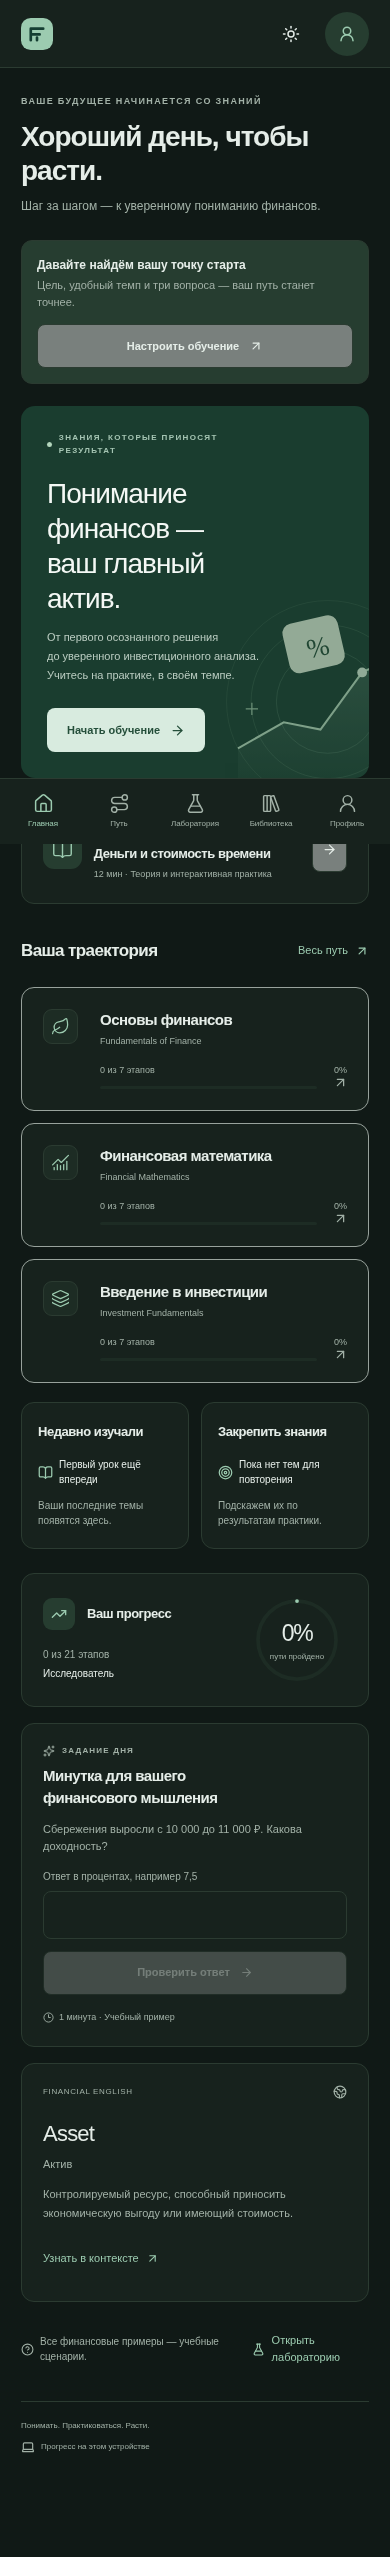
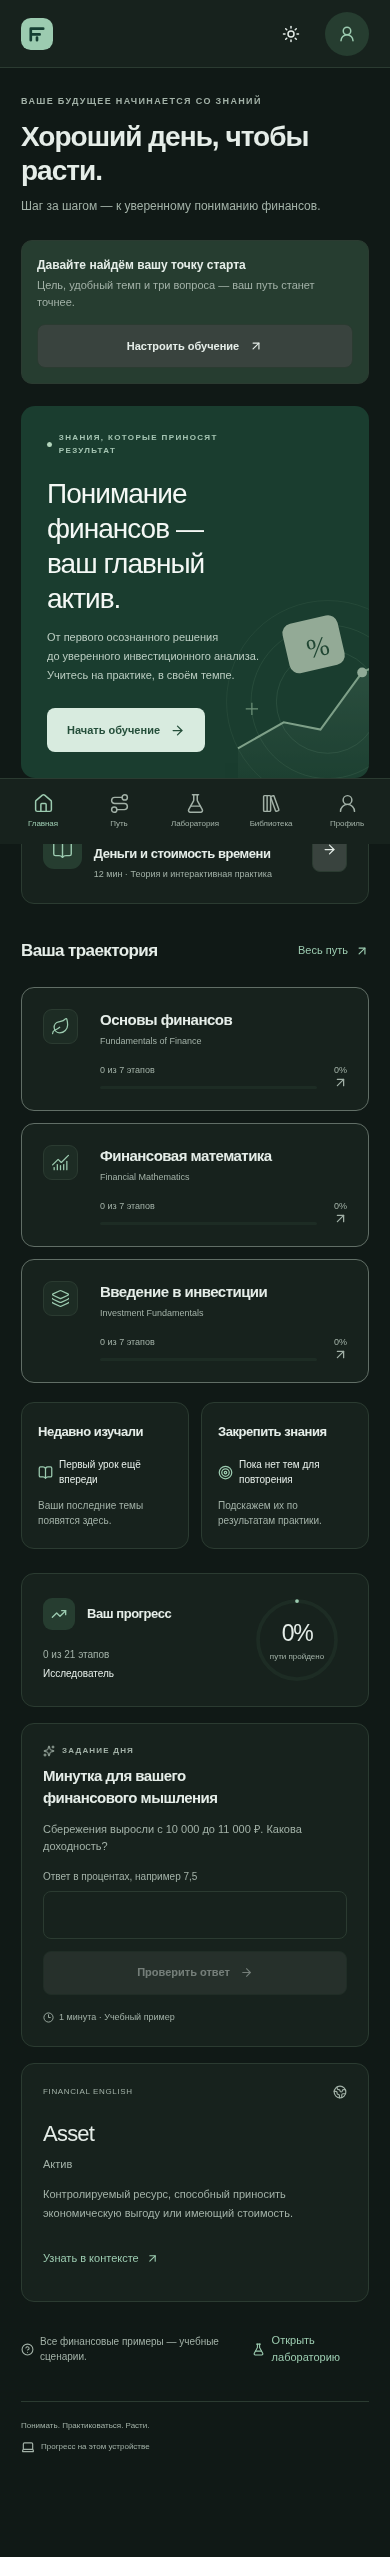
Record verified production release and use browser fetch for PWA checks

Changed region(s): [[0.1231, 0.7415, 0.8923, 0.8033], [0.0923, 0.1236, 0.9231, 0.1545], [0.8, 0.309, 0.8923, 0.3399]]

diff --git a/tests/e2e/academy.spec.ts b/tests/e2e/academy.spec.ts
@@ -353,9 +353,12 @@ test('PWA manifest and visited public lesson work after losing connectivity', as
 }) => {
   await page.goto('/lesson/m1-money');
   await expect(page.getByRole('heading', { name: 'Деньги — инструмент обмена' })).toBeVisible();
-  const manifest = await page.request.get('/manifest.webmanifest');
-  expect(manifest.ok()).toBeTruthy();
-  expect((await manifest.json()).display).toBe('standalone');
+  const manifest = await page.evaluate(async () => {
+    const response = await fetch('/manifest.webmanifest');
+    return { status: response.status, body: await response.json() };
+  });
+  expect(manifest.status).toBe(200);
+  expect(manifest.body.display).toBe('standalone');
   await page.evaluate(async () => {
     await navigator.serviceWorker.ready;
   });

diff --git a/docs/verification.md b/docs/verification.md
@@ -6,6 +6,36 @@
 изолированный браузерный контекст для каждого теста; гостевые ответы не
 подменяются заранее подготовленным прогрессом.
 
+## Проверка опубликованной версии
+
+Production: **https://finance-swart-six.vercel.app/**, дополнительный алиас
+https://finance-elcin31s-projects.vercel.app/. Использован существующий проект
+Vercel `finance` (`prj_rdsX7IPKPDqpB3w8ZqBqklBX6kbO`), без создания дубля.
+Проверенная версия приложения: commit `426896bc9d2f8e1a286f1ad4f53fc57061b2e7cb`,
+deployment `dpl_9Tn8fjii54YB5CrrsMzUjTt5duyH`, статус READY, сборка около 35 секунд.
+
+- Реальный Chromium открыл публичный production URL: HTTP 200, правильный
+  заголовок FINLAB, интерфейс после hydration, без pageerror.
+- `BASE_URL=https://finance-swart-six.vercel.app npm run test:e2e`:
+  **15 passed (1.3m)**, включая все 112 упражнений, 3 экзамена, семь ширин и
+  офлайн-перезагрузку урока.
+- `BASE_URL=https://finance-swart-six.vercel.app npm run test:auth`:
+  **1 passed (13.2s)**, настоящий Supabase, импорт, второй контекст, выход.
+- GitHub Actions для того же commit: **success**. Выполнены npm ci, TypeScript,
+  unit tests, production build и все 15 гостевых E2E на чистом runner без Supabase
+  credentials: https://github.com/elcin31/finance-/actions/runs/40660272560.
+- Vercel runtime error query за последние 15 минут: `No logs found for the
+specified criteria`. Внешние log drains/Observability Plus не подключались.
+- Временный подтверждённый Auth QA-пользователь и его данные удалены после
+  проверки; SQL подтвердил 0 оставшихся записей этого пользователя. Credentials
+  из локального `.env.e2e.local` также удалены.
+
+Первый внешний PWA-тест остановился на Node HTTP-клиенте: `ECONNREFUSED` к
+Vercel, до проверки приложения. Manifest теперь запрашивается через настоящий
+браузерный fetch той же страницы; повторный полный прогон 15/15 успешен.
+Никакие сетевые ответы не подменялись. Следующий коммит содержит только этот
+тестовый запрос, обновлённые снимки и документацию; приложение не изменено.
+
 Итоговый полный запуск `npm run test:e2e`: **15 passed (1.3m)**. Прогон
 включает полный учебный путь, повторный экзамен, все перечисленные размеры и
 инструменты, клавиатуру и отключение сети. Он повторён после финальной сборки

diff --git a/docs/supabase.md b/docs/supabase.md
@@ -7,7 +7,7 @@
 1. Используйте отдельный проект FINLAB. Не применяйте миграции к базам других приложений.
 2. Скопируйте `.env.example` в `.env.local`. Укажите `NEXT_PUBLIC_SUPABASE_URL` и **publishable** key в `NEXT_PUBLIC_SUPABASE_PUBLISHABLE_KEY`. Эти значения предназначены для браузера. `service_role`, `sb_secret_*` и пароль PostgreSQL здесь запрещены.
 3. Примените SQL из `supabase/migrations/` по порядку. Для Supabase CLI сначала выполните `npx supabase --help`, затем `npx supabase link --project-ref <FINLAB_REF>` и `npx supabase db push`. Не добавляйте пароль базы в командную строку или Git.
-4. В Authentication → URL Configuration укажите фактический Site URL. Добавьте `http://localhost:3000/profile` и адрес опубликованного приложения с `/profile` в разрешённые Redirect URLs. Для восстановления пароля используется этот же маршрут.
+4. В Authentication → URL Configuration укажите Site URL `https://finance-swart-six.vercel.app`. Добавьте `http://localhost:3000/profile` и `https://finance-swart-six.vercel.app/profile` в разрешённые Redirect URLs; при использовании второго production-алиаса добавьте также `https://finance-elcin31s-projects.vercel.app/profile`. Для восстановления пароля используется этот же маршрут. Эти настройки и внешняя SMTP-доставка требуют проверки в Dashboard: доступные MCP-инструменты не изменяют Auth URL configuration.
 5. В Authentication → Providers включите email/password. Подтверждение email должно соответствовать настройкам приложения: регистрация с включённым подтверждением показывает сообщение о письме, а не объявляет пользователя вошедшим.
 6. Для доставки писем реальным пользователям настройте SMTP и проверьте ограничения Supabase Auth. При стандартной почтовой доставке могут действовать ограничения адресатов и частоты запросов.
 7. Перезапустите `npm run dev`. `NEXT_PUBLIC_*` также должны присутствовать во время Vercel build.
